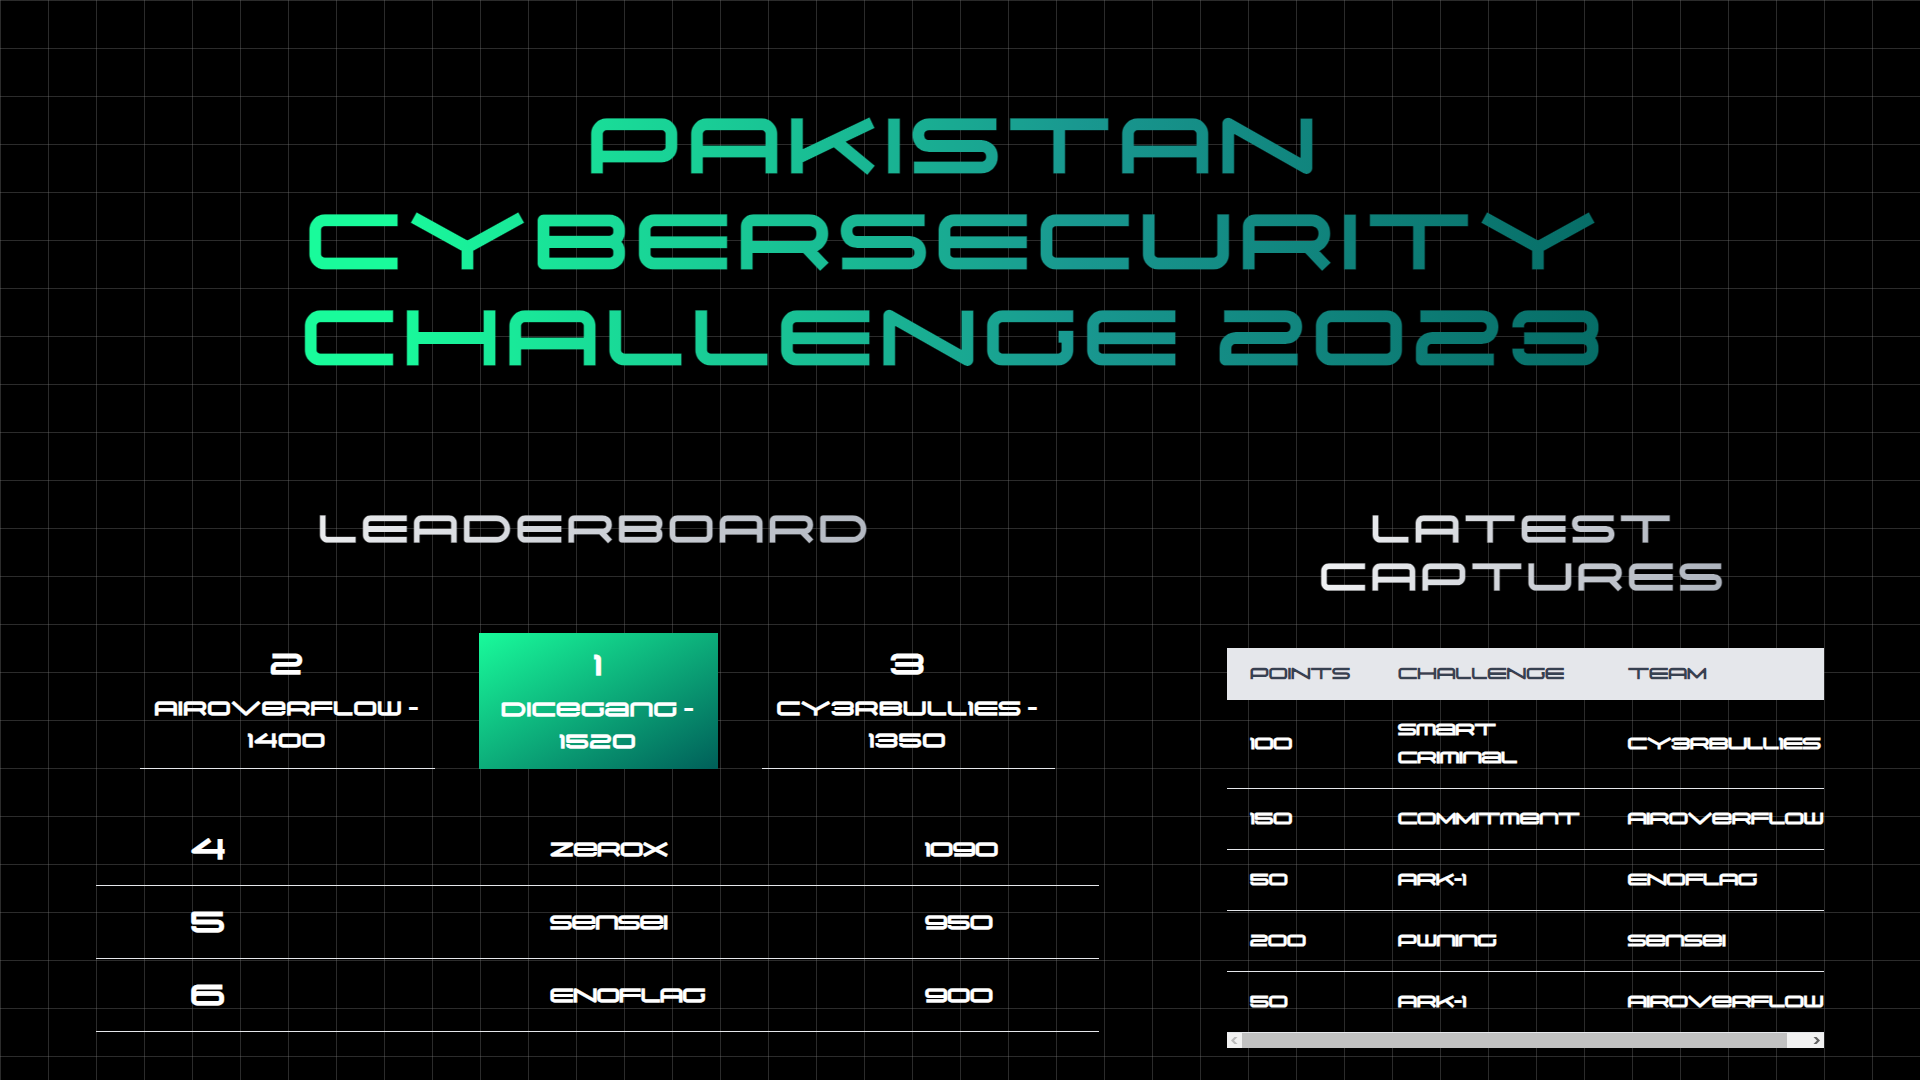
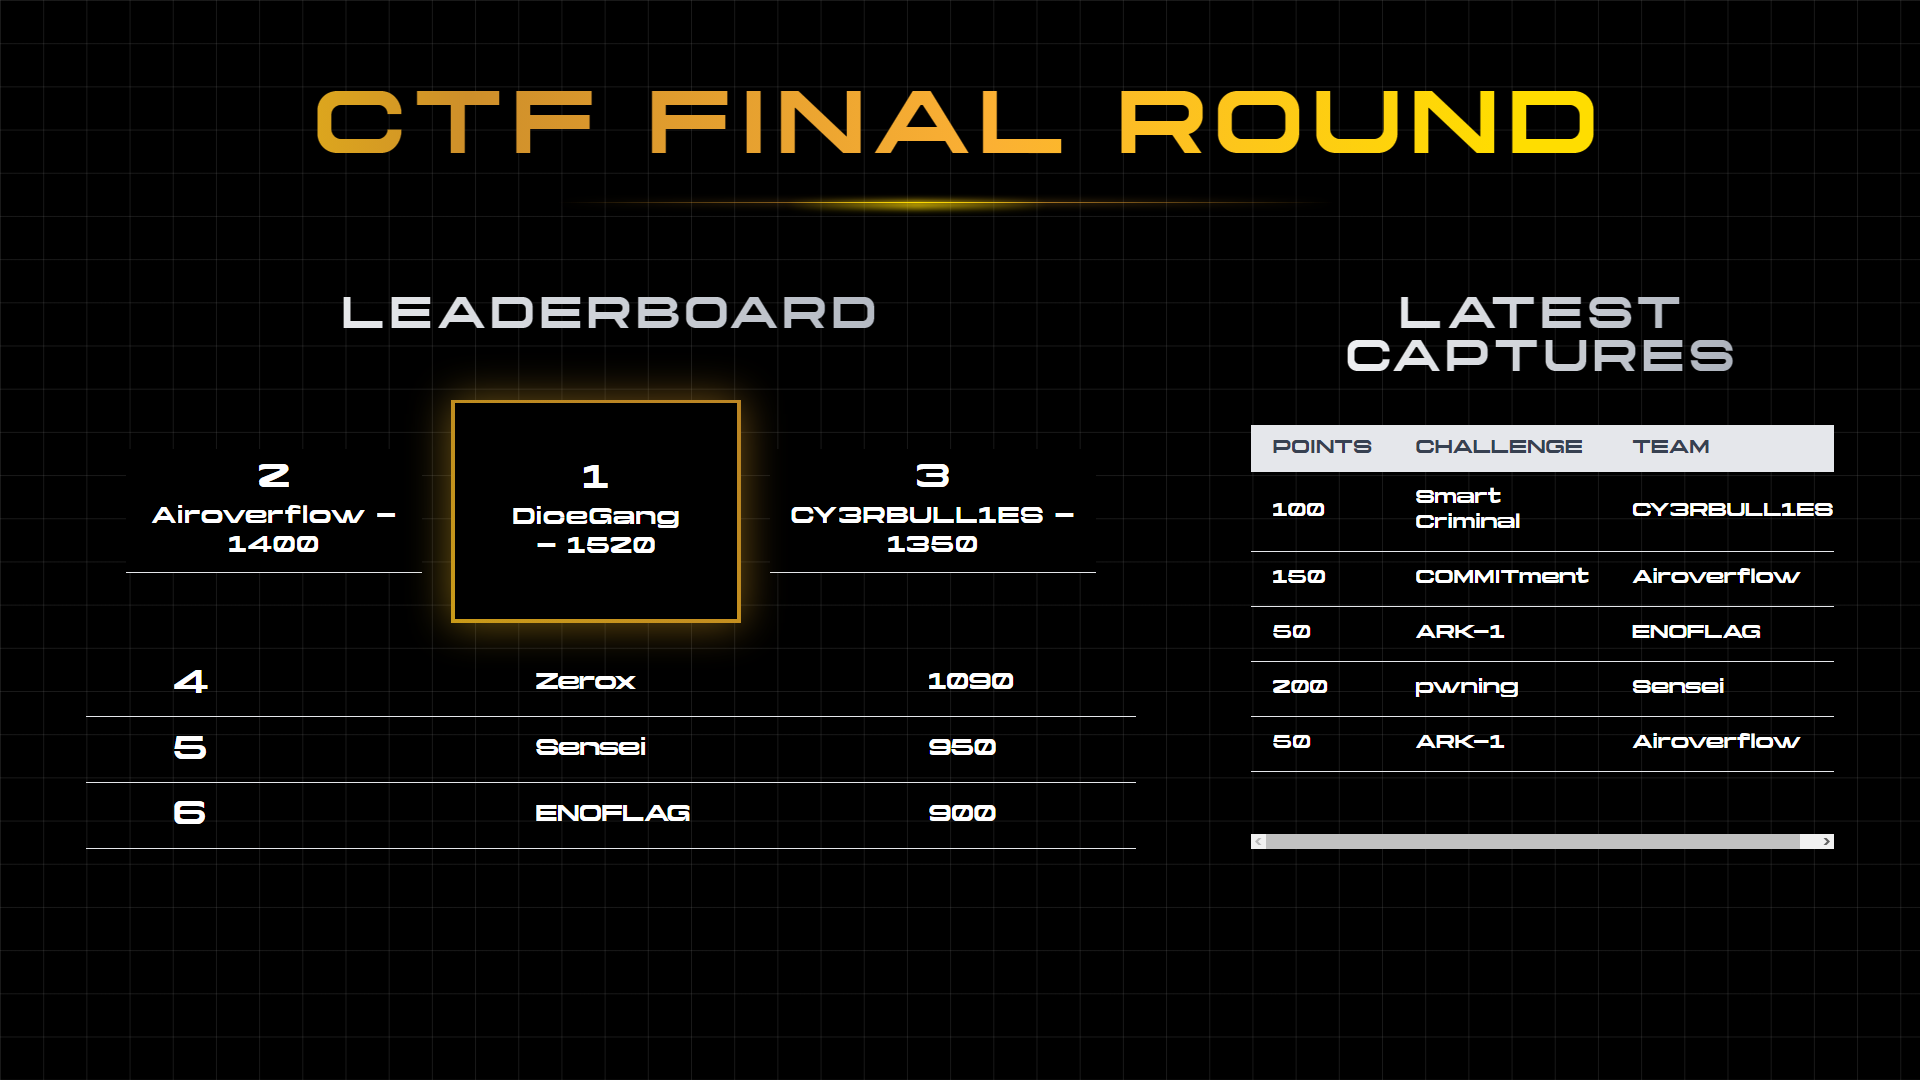
update project snaps & demo links

diff --git a/src/app/ctf/page.tsx b/src/app/ctf/page.tsx
@@ -4,9 +4,10 @@ import Image from "next/image";
 import ctfImg from "../../../public/assets/projects/ctf-scoreboard.png";
 import firstBlood from "../../../public/assets/projects/first-blood.png";
 import newLeader from "../../../public/assets/projects/new-leader.png";
-import ctf2 from "../../../public/assets/projects/ctf-scoreboard2.png";
-import firstBlood2 from "../../../public/assets/projects/first-blood2.png";
-import newLeader2 from "../../../public/assets/projects/new-leader2.png";
+import ctf from "../../../public/assets/projects/ctf-scoreboard.png";
+import winner from "../../../public/assets/projects/winner.png";
+import winner2 from "../../../public/assets/projects/winner-2.png";
+import winner3 from "../../../public/assets/projects/winner-3.png";
 
 const page = () => {
   return (
@@ -17,7 +18,7 @@ const page = () => {
           className="absolute z-1"
           layout="fill"
           objectFit="cover"
-          src={ctf2}
+          src={ctf}
           alt="/"
         />
         <div className="tracking-tighter absolute top-[70%] max-w-[1240px] w-full left-[50%] right-[50%] translate-x-[-50%] translate-y-[-50%] text-white z-10 p-2">
@@ -55,33 +56,6 @@ const page = () => {
           <div className="hover:scale-105 ease-in duration-100 flex flex-col items-center rounded-xl shadow-xl shadow-gray-700">
             <Image
               className="col-span-1 max-h-full w-full object-cover sm:col-start-2 rounded-xl"
-              src={firstBlood2}
-              alt="first-blood"
-              width={1868}
-              height={1030}
-            />
-          </div>
-          <div className="hover:scale-105 ease-in duration-100 flex flex-col items-center rounded-xl shadow-xl shadow-gray-700">
-            <Image
-              className="col-span-1 col-start-2 max-h-full w-full object-cover sm:col-start-auto rounded-xl"
-              src={ctf2}
-              alt="Leaderboard-and-solves"
-              width={1850}
-              height={1071}
-            />
-          </div>
-          <div className="hover:scale-105 ease-in duration-100 flex flex-col items-center rounded-xl shadow-xl shadow-gray-700">
-            <Image
-              className="col-span-1 col-start-2 max-h-full w-full object-cover sm:col-start-auto rounded-xl"
-              src={newLeader2}
-              alt="new-leader"
-              width={1846}
-              height={1006}
-            />
-          </div>
-          <div className="hover:scale-105 ease-in duration-100 flex flex-col items-center rounded-xl shadow-xl shadow-gray-700">
-            <Image
-              className="col-span-1 max-h-full w-full object-cover sm:col-start-2 rounded-xl"
               src={firstBlood}
               alt="first-blood"
               width={700}
@@ -104,6 +78,33 @@ const page = () => {
               alt="new-leader"
               width={700}
               height={700}
+            />
+          </div>
+          <div className="hover:scale-105 ease-in duration-100 flex flex-col items-center rounded-xl shadow-xl shadow-gray-700">
+            <Image
+              className="col-span-1 max-h-full w-full object-cover sm:col-start-2 rounded-xl"
+              src={winner2}
+              alt="winner-2"
+              width={1868}
+              height={1030}
+            />
+          </div>
+          <div className="hover:scale-105 ease-in duration-100 flex flex-col items-center rounded-xl shadow-xl shadow-gray-700">
+            <Image
+              className="col-span-1 col-start-2 max-h-full w-full object-cover sm:col-start-auto rounded-xl"
+              src={winner}
+              alt="winner-1"
+              width={1850}
+              height={1071}
+            />
+          </div>
+          <div className="hover:scale-105 ease-in duration-100 flex flex-col items-center rounded-xl shadow-xl shadow-gray-700">
+            <Image
+              className="col-span-1 col-start-2 max-h-full w-full object-cover sm:col-start-auto rounded-xl"
+              src={winner3}
+              alt="winner-3"
+              width={1846}
+              height={1006}
             />
           </div>
         </div>

diff --git a/src/app/siliconvillage/page.tsx b/src/app/siliconvillage/page.tsx
@@ -39,6 +39,9 @@ const page = () => {
             first and largest tech hub in Pakistan. The project is being built by ByteBoltSec's team.`}
           </p>
           <div className="mt-10 flex justify-center">
+            <button className="text-black font-bold bg-gradient-to-r from-[#40e0d0] via-[#55dada] to-[#1d3463] hover:bg-gradient-to-br focus:ring-4 focus:outline-none focus:ring-blue-300 dark:focus:ring-blue-800 rounded-lg text-sm px-5 py-2.5 text-center mr-2 mb-2">
+              <Link href="https://silicon-village.vercel.app">Demo</Link>
+            </button>
             <button className="text-white bg-gray-800 hover:bg-gray-900 focus:outline-none focus:ring-4 focus:ring-gray-300 font-medium rounded-lg text-sm px-5 py-2.5 mr-2 mb-2 dark:bg-gray-800 dark:hover:bg-gray-700 dark:focus:ring-gray-700 dark:border-gray-700">
               <Link href="/#projects">
                 <p className="">Back</p>

diff --git a/src/app/aucss/page.tsx b/src/app/aucss/page.tsx
@@ -41,7 +41,7 @@ const page = () => {
           </p>
           <div className="mt-10 flex justify-center">
             <button className="text-white bg-gradient-to-r from-[#1190CB] via-blue-500 to-blue-700 hover:bg-gradient-to-br focus:ring-4 focus:outline-none focus:ring-blue-300 dark:focus:ring-blue-800 font-medium rounded-lg text-sm px-5 py-2.5 text-center mr-2 mb-2">
-              <Link href="https://www.aucss.live/">Demo</Link>
+              <Link href="https://aucss.vercel.app/">Demo</Link>
             </button>
             <button className="text-white bg-gray-800 hover:bg-gray-900 focus:outline-none focus:ring-4 focus:ring-gray-300 font-medium rounded-lg text-sm px-5 py-2.5 mr-2 mb-2 dark:bg-gray-800 dark:hover:bg-gray-700 dark:focus:ring-gray-700 dark:border-gray-700">
               <Link href="/#projects">

diff --git a/src/components/Projects.tsx b/src/components/Projects.tsx
@@ -8,7 +8,7 @@ import creativeMedia from "../../public/assets/projects/creative-media-partners.
 import aucssImg from "../../public/assets/projects/aucss.png";
 import intelligenImage from "../../public/assets/projects/intelligen.png";
 import decentraConnect from "../../public/assets/projects/decentra-connect.png";
-import ctf from "../../public/assets/projects/ctf-scoreboard2.png";
+import ctf from "../../public/assets/projects/ctf-scoreboard.png";
 import DesignItem from "./DesignItem";
 import ProjectItem2 from "./ProjectItem2";
 
